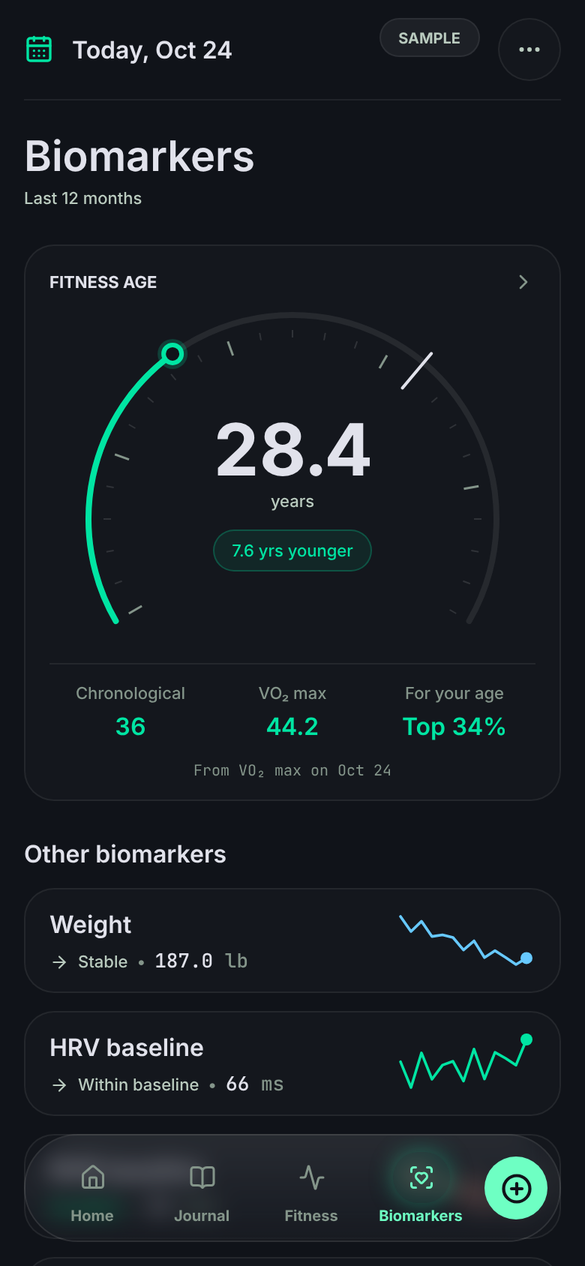
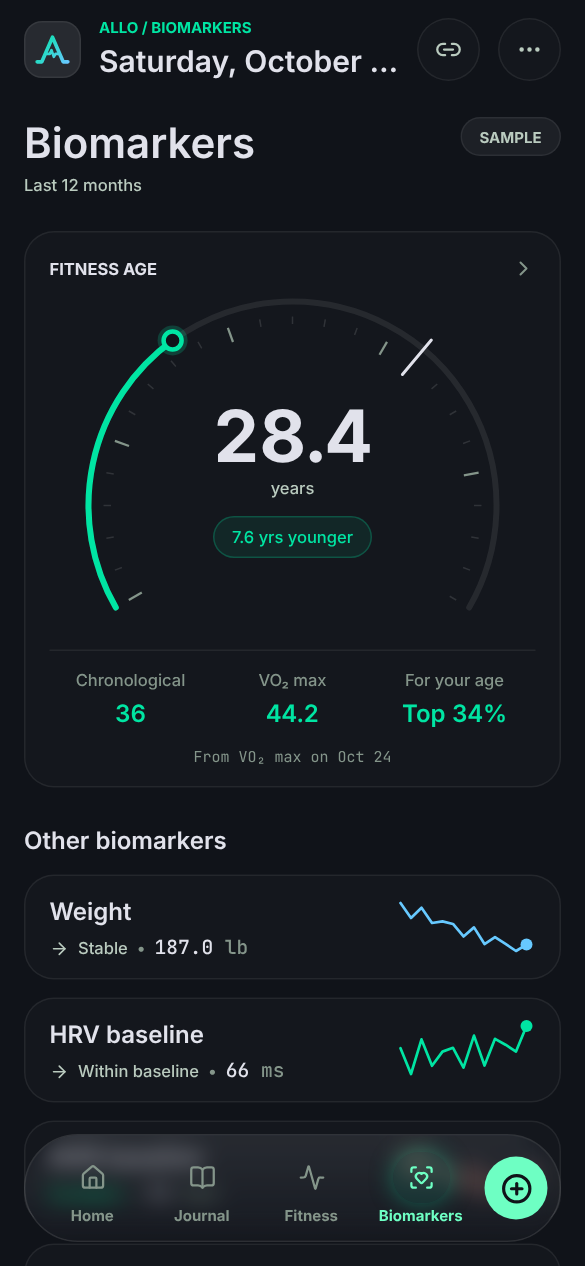
docs: refresh screenshots with the shared header, readiness page and quick-add sheet

diff --git a/README.md b/README.md
@@ -15,10 +15,10 @@ Everything is computed on your device. Your health data never leaves your phone.
 
 Shown with the built-in sample data. Allo Health follows a dark or light theme, or your phone's setting.
 
-| | Today | Fitness | Biomarkers | VO₂ max | Journal |
-| --- | --- | --- | --- | --- | --- |
-| **Dark** | <img src="docs/images/dark-today.png" width="160" alt="Today, dark theme"> | <img src="docs/images/dark-fitness.png" width="160" alt="Fitness, dark theme"> | <img src="docs/images/dark-biomarkers.png" width="160" alt="Biomarkers, dark theme"> | <img src="docs/images/dark-vo2-max.png" width="160" alt="VO2 max detail, dark theme"> | <img src="docs/images/dark-journal.png" width="160" alt="Journal, dark theme"> |
-| **Light** | <img src="docs/images/light-today.png" width="160" alt="Today, light theme"> | <img src="docs/images/light-fitness.png" width="160" alt="Fitness, light theme"> | <img src="docs/images/light-biomarkers.png" width="160" alt="Biomarkers, light theme"> | <img src="docs/images/light-vo2-max.png" width="160" alt="VO2 max detail, light theme"> | <img src="docs/images/light-journal.png" width="160" alt="Journal, light theme"> |
+| | Today | Fitness | Biomarkers | VO₂ max | Journal | Readiness | Quick add |
+| --- | --- | --- | --- | --- | --- | --- | --- |
+| **Dark** | <img src="docs/images/dark-today.png" width="160" alt="Today, dark theme"> | <img src="docs/images/dark-fitness.png" width="160" alt="Fitness, dark theme"> | <img src="docs/images/dark-biomarkers.png" width="160" alt="Biomarkers, dark theme"> | <img src="docs/images/dark-vo2-max.png" width="160" alt="VO2 max detail, dark theme"> | <img src="docs/images/dark-journal.png" width="160" alt="Journal, dark theme"> | <img src="docs/images/dark-readiness.png" width="160" alt="Readiness detail, dark theme"> | <img src="docs/images/dark-quick-add.png" width="160" alt="Quick add sheet, dark theme"> |
+| **Light** | <img src="docs/images/light-today.png" width="160" alt="Today, light theme"> | <img src="docs/images/light-fitness.png" width="160" alt="Fitness, light theme"> | <img src="docs/images/light-biomarkers.png" width="160" alt="Biomarkers, light theme"> | <img src="docs/images/light-vo2-max.png" width="160" alt="VO2 max detail, light theme"> | <img src="docs/images/light-journal.png" width="160" alt="Journal, light theme"> | <img src="docs/images/light-readiness.png" width="160" alt="Readiness detail, light theme"> | <img src="docs/images/light-quick-add.png" width="160" alt="Quick add sheet, light theme"> |
 
 ## What you get
 
